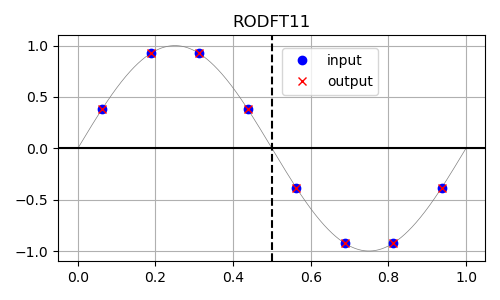
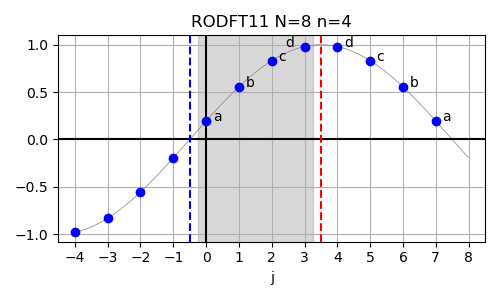
RODFTxx plots refined

diff --git a/img/plot_1d_rodft_examples.py b/img/plot_1d_rodft_examples.py
@@ -8,66 +8,160 @@ Created on Thu Mar 18 18:59:42 2021
 
 import numpy as np
 import matplotlib.pyplot as plt
+from matplotlib.ticker import MaxNLocator
 
 omega = 2.0*np.pi
 
-# eval cosine at 1000 points for background
-t_ref = np.arange(1000)/1000
+# eval cosine at n_ref points for background
+n_ref = 1024
+
+# logical DFT size
+N = 8
+
+t_ref = np.arange(-n_ref/2*(1+1/N), n_ref)/n_ref+1/N
 y_ref = np.sin(omega*t_ref)
+y_ref_1 = np.sin(omega*(t_ref+0.5))
+y_ref_2 = np.sin(omega*(t_ref/2))
 
-# discrete sample at n points
-n = 8
+t = np.arange(-N/2, N)
+y0 = np.sin(omega*(t+1)/N)
+y1 = np.sin(omega*(t+0.5)/N)
+y2 = np.sin(omega*(t+1)/N/2)
+y3 = np.sin(omega*(t+0.5)/N/2)
 
-t0 = np.arange(n)/n
-y0 = np.sin(omega*t0)
-
-t1 = (np.arange(n)+0.5)/n
-y1 = np.sin(omega*t1)
+#%% RODFT00 
+n = int(N/2)-1
 
 plt.figure(figsize=(5,3))
-plt.plot(t_ref, y_ref, '-', color='gray', linewidth=0.5)
-plt.axhline(0.0, ls='-', color='k')
-plt.axvline(0.5, ls='--', color='k')
-plt.plot(t0, y0, 'bo', label='input')
-plt.plot(t0, y0, 'rx', label='output')
+
+plt.plot(t_ref[int(n_ref/N/2):]*N-1, y_ref[int(n_ref/N/2):], '-', color='gray', linewidth=0.5)
+plt.axhline(0, ls='-', color='k')
+plt.axvline(0, ls='-', color='k')
+
+# symmetry lines
+plt.axvline(-1, ls='--', color='b')
+plt.axvline(n, ls='--', color='b')
+
+# highlight array contents
+plt.axvspan(0-0.25, (n-1)+0.25, alpha=0.3, color='gray')
+
+plt.plot(t, y0, 'bo')
+
+for i in range(n):
+    plt.text(t[int(i+N/2)]+0.2, y0[int(i+N/2)], chr(ord("a")+i))
+    plt.text(t[int(N-i+2)]+0.2, y0[int(N-i+2)]+0.05, "-"+chr(ord("a")+i))
+    
+
+# only integer xaxis ticks
+plt.gca().xaxis.set_major_locator(MaxNLocator(steps=(1,10), integer=True))
+plt.xlim((-4.5, 8.5))
+
 plt.grid(True)
-plt.title("RODFT00")
-plt.legend(loc=(0.525, 0.738))
+plt.xlabel("j")
+plt.title("RODFT00 N=%d n=%d"%(N, n))
 plt.tight_layout()
 plt.savefig("rodft00.png")
 
+#%% RODFT10
+n = int(N/2)
+
 plt.figure(figsize=(5,3))
-plt.plot(t_ref, y_ref, '-', color='gray', linewidth=0.5)
-plt.axhline(0.0, ls='-', color='k')
-plt.axvline(0.5, ls='--', color='k')
-plt.plot(t1, y1, 'bo', label='input')
-plt.plot(t0, y0, 'rx', label='output')
+plt.plot(t_ref[:-int(n_ref/N/2)]*N-0.5, y_ref[:-int(n_ref/N/2)], '-', color='gray', linewidth=0.5)
+plt.axhline(0, ls='-', color='k')
+plt.axvline(0, ls='-', color='k')
+
+# symmetry lines
+plt.axvline(-0.5, ls='--', color='b')
+plt.axvline(n-0.5, ls='--', color='b')
+
+# highlight array contents
+plt.axvspan(0-0.25, (n-1)+0.25, alpha=0.3, color='gray')
+
+plt.plot(t, y1, 'bo')
+
+for i in range(N):
+    if i==n-1:
+        plt.text(t[int(i+N/2)]-0.7, y1[int(i+N/2)], chr(ord("a")+i))
+    elif i==N-1:
+        plt.text(t[int(i+N/2)]-0.7, y1[int(i+N/2)], "-"+chr(ord("a")+(N-i-1)))
+    elif i>=n:
+        plt.text(t[int(i+N/2)]+0.2, y1[int(i+N/2)], "-"+chr(ord("a")+(N-i-1)))
+    else:
+        plt.text(t[int(i+N/2)]+0.2, y1[int(i+N/2)], chr(ord("a")+i))
+
+# only integer xaxis ticks
+plt.gca().xaxis.set_major_locator(MaxNLocator(steps=(1,10), integer=True))
+plt.xlim((-4.5, 8.5))
+
 plt.grid(True)
-plt.title("RODFT10")
-plt.legend(loc=(0.525, 0.738))
+plt.xlabel("j")
+plt.title("RODFT10 N=%d n=%d"%(N, n))
 plt.tight_layout()
 plt.savefig("rodft10.png")
 
+#%% RODFT01
+
 plt.figure(figsize=(5,3))
-plt.plot(t_ref, y_ref, '-', color='gray', linewidth=0.5)
-plt.axhline(0.0, ls='-', color='k')
-plt.axvline(0.5, ls='--', color='k')
-plt.plot(t0, y0, 'bo', label='input')
-plt.plot(t1, y1, 'rx', label='output')
+plt.plot(t_ref[int(n_ref/N/2):]*N-1, y_ref_2[int(n_ref/N/2):], '-', color='gray', linewidth=0.5)
+plt.axhline(0, ls='-', color='k')
+plt.axvline(0, ls='-', color='k')
+
+# symmetry lines
+plt.axvline(-1, ls='--', color='b')
+plt.axvline(n-1, ls='--', color='r')
+
+# highlight array contents
+plt.axvspan(0-0.25, (n-1)+0.25, alpha=0.3, color='gray')
+
+plt.plot(t, y2, 'bo')
+
+for i in range(N):
+    if i>=n and i<N-1:
+        plt.text(t[int(i+N/2)]+0.2, y2[int(i+N/2)], chr(ord("a")+(N-i-2)))
+    elif i<n:
+        plt.text(t[int(i+N/2)]+0.2, y2[int(i+N/2)], chr(ord("a")+i))
+
+# only integer xaxis ticks
+plt.gca().xaxis.set_major_locator(MaxNLocator(steps=(1,10), integer=True))
+plt.xlim((-4.5, 8.5))
+
 plt.grid(True)
-plt.title("RODFT01")
-plt.legend(loc=(0.525, 0.738))
+plt.xlabel("j")
+plt.title("RODFT01 N=%d n=%d"%(N, n))
 plt.tight_layout()
 plt.savefig("rodft01.png")
 
+
+#%% RODFT11
+
 plt.figure(figsize=(5,3))
-plt.plot(t_ref, y_ref, '-', color='gray', linewidth=0.5)
-plt.axhline(0.0, ls='-', color='k')
-plt.axvline(0.5, ls='--', color='k')
-plt.plot(t1, y1, 'bo', label='input')
-plt.plot(t1, y1, 'rx', label='output')
+plt.plot(t_ref[:-int(n_ref/N/2)]*N-0.5, y_ref_2[:-int(n_ref/N/2)], '-', color='gray', linewidth=0.5)
+plt.axhline(0, ls='-', color='k')
+plt.axvline(0, ls='-', color='k')
+
+# symmetry lines
+plt.axvline(-0.5, ls='--', color='b')
+plt.axvline(n-0.5, ls='--', color='r')
+
+# highlight array contents
+plt.axvspan(0-0.25, (n-1)+0.25, alpha=0.3, color='gray')
+
+plt.plot(t, y3, 'bo')
+
+for i in range(N):
+    if i==n-1:
+        plt.text(t[int(i+N/2)]-0.6, y3[int(i+N/2)], chr(ord("a")+i))
+    elif i>=n:
+        plt.text(t[int(i+N/2)]+0.2, y3[int(i+N/2)], chr(ord("a")+(N-i-1)))
+    else:
+        plt.text(t[int(i+N/2)]+0.2, y3[int(i+N/2)], chr(ord("a")+i))
+
+# only integer xaxis ticks
+plt.gca().xaxis.set_major_locator(MaxNLocator(steps=(1,10), integer=True))
+plt.xlim((-4.5, 8.5))
+
 plt.grid(True)
-plt.title("RODFT11")
-plt.legend(loc=(0.525, 0.738))
+plt.xlabel("j")
+plt.title("RODFT11 N=%d n=%d"%(N, n))
 plt.tight_layout()
 plt.savefig("rodft11.png")
